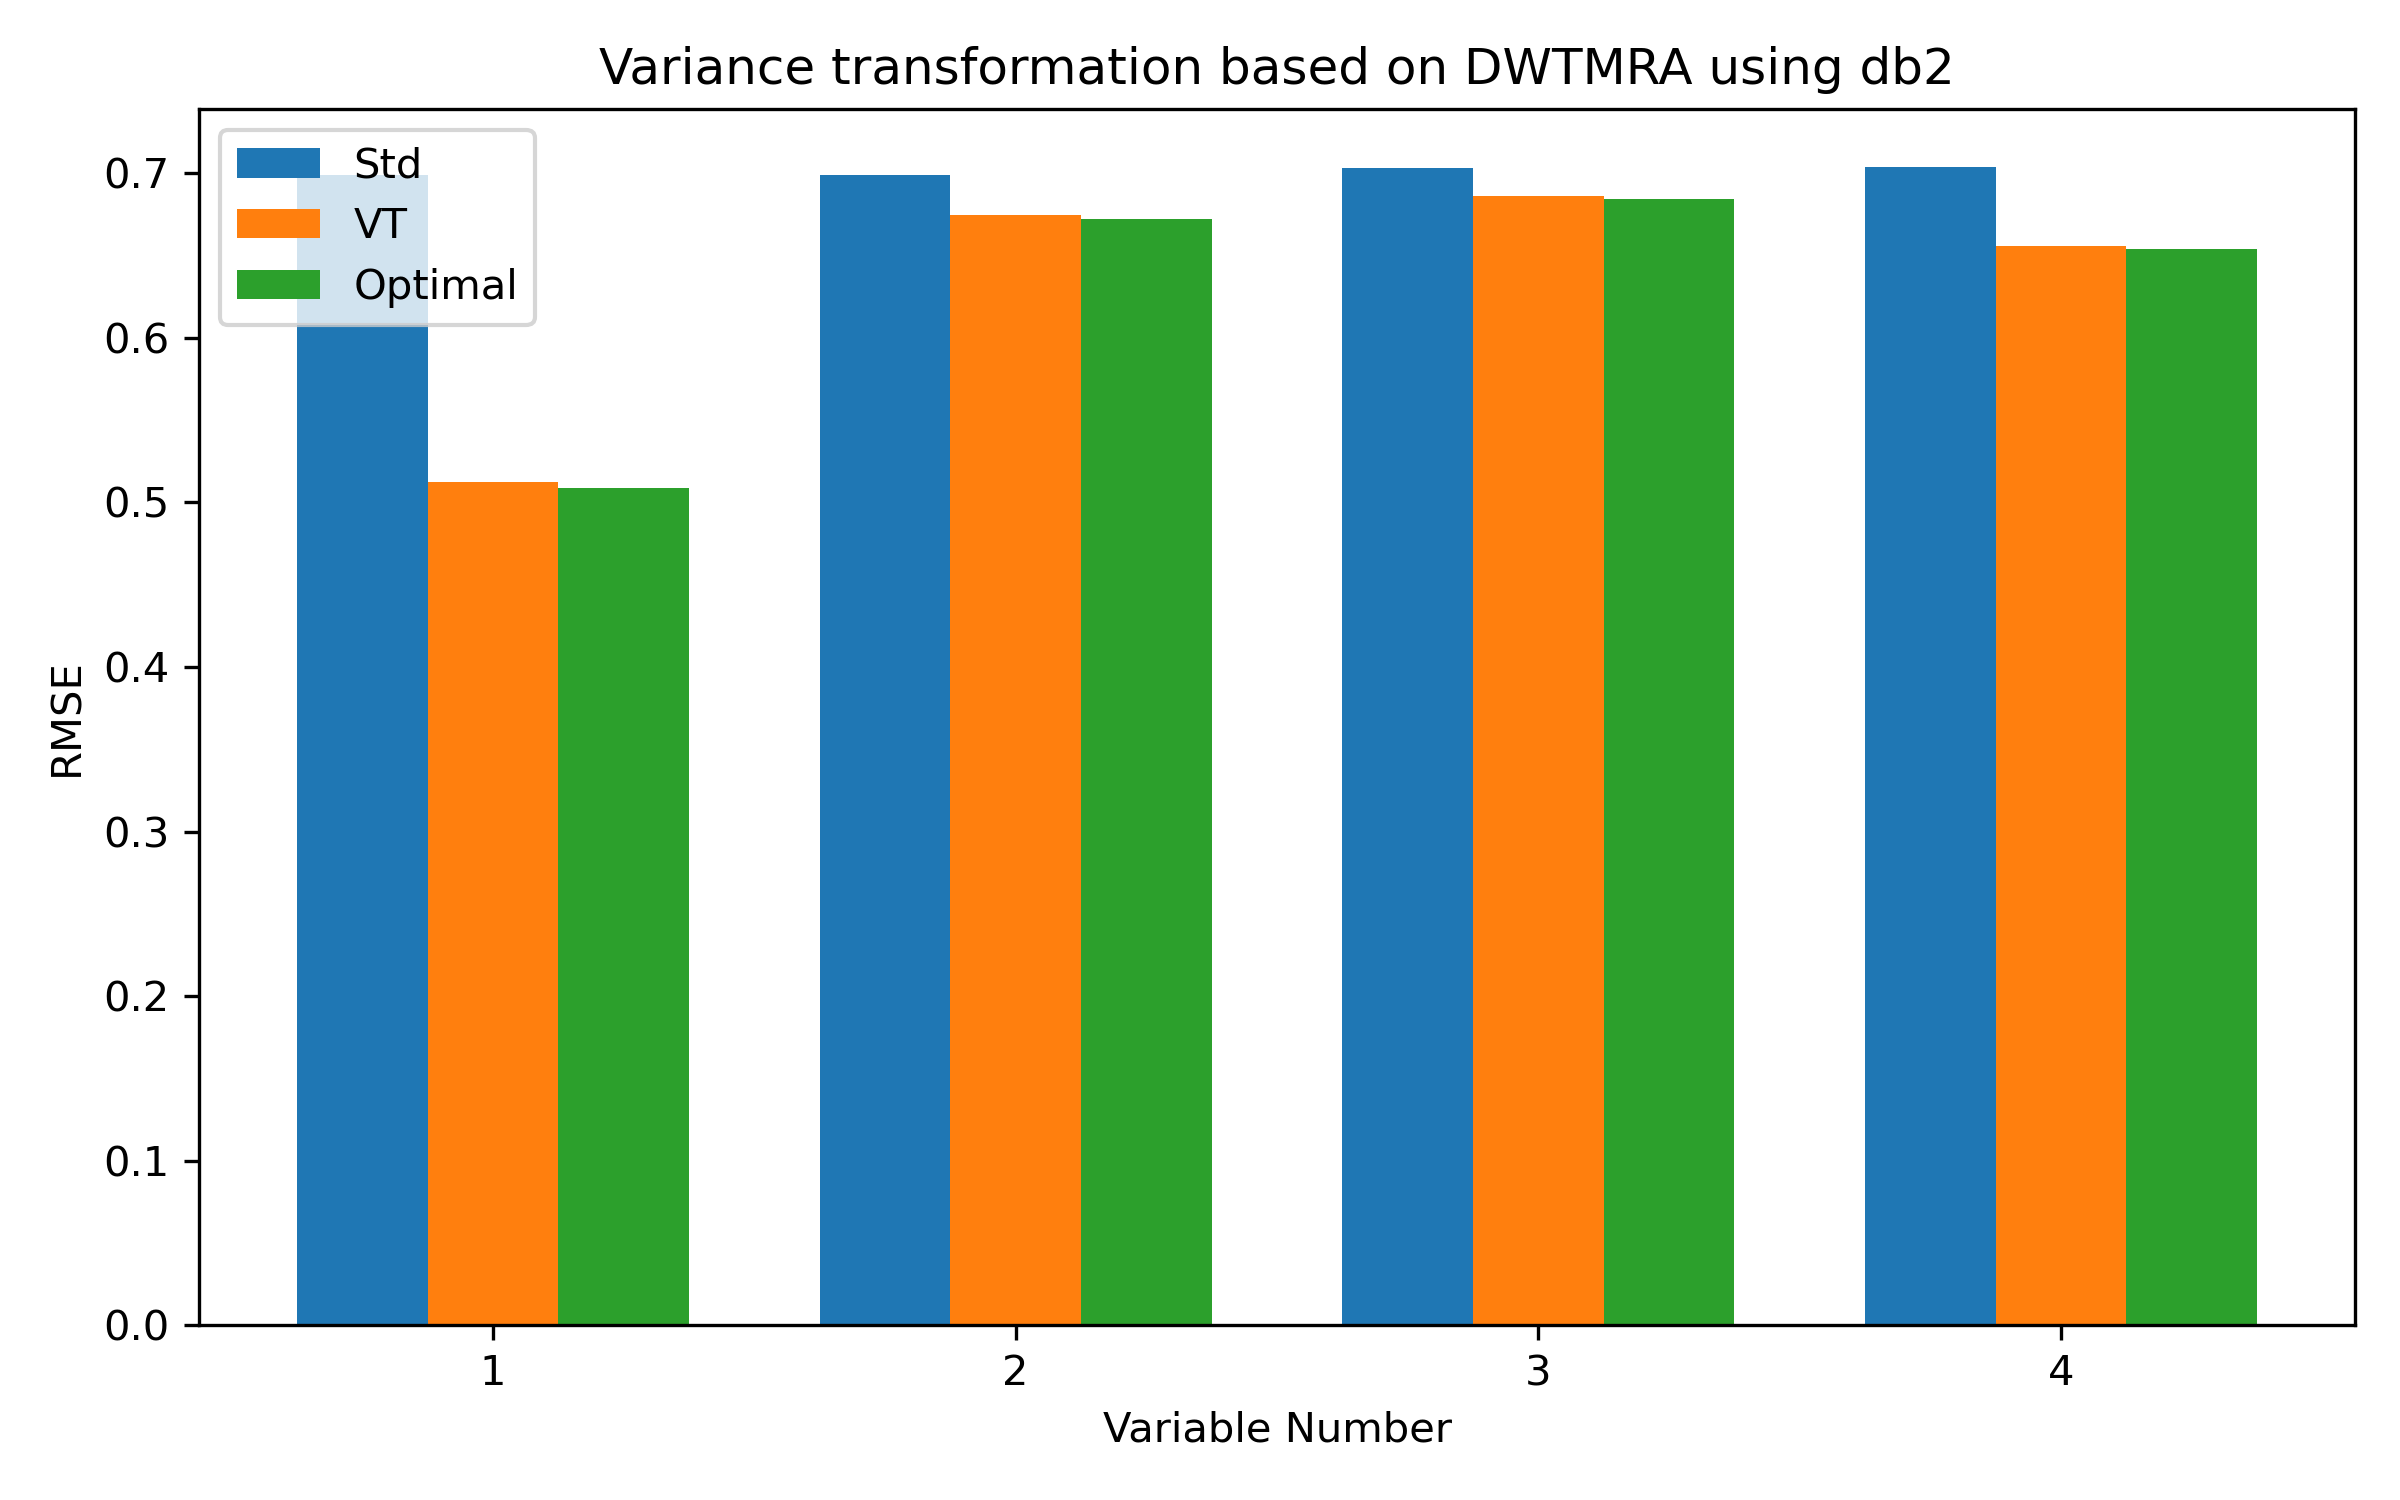
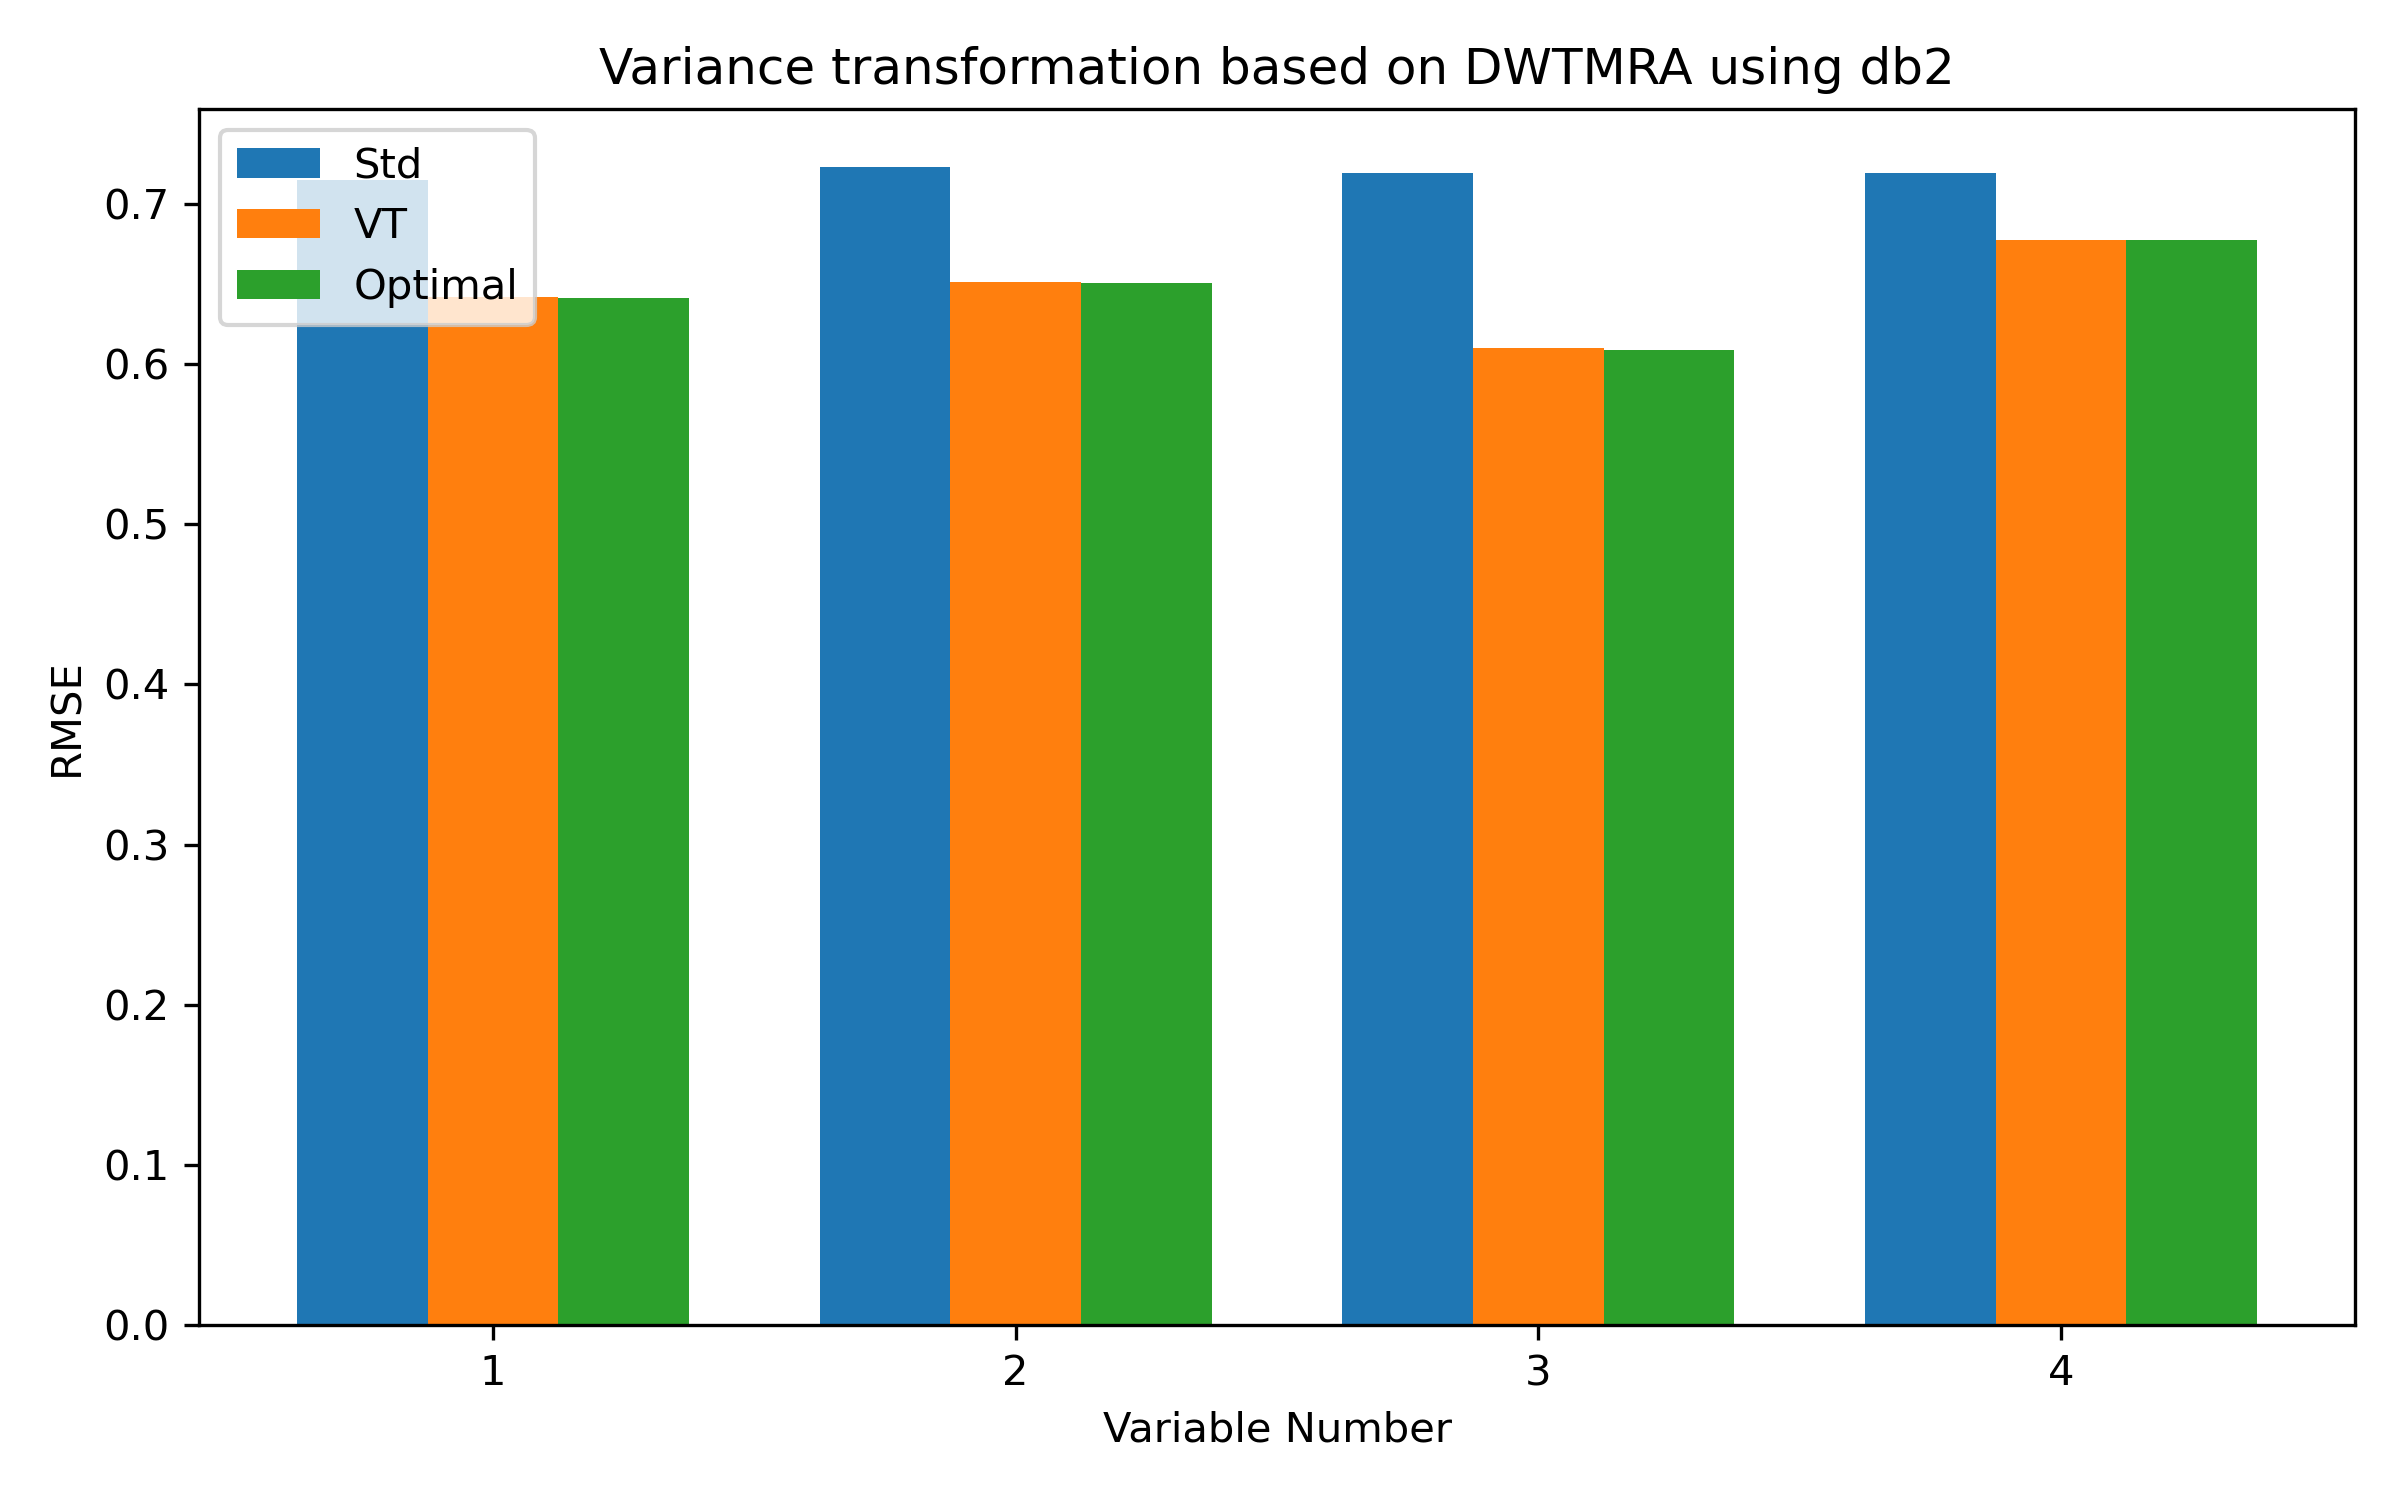
update demo1

diff --git a/wasp_demo1.py b/wasp_demo1.py
@@ -39,7 +39,7 @@ for i in range(n_var):
     x_wasp = X_WaSP[:N, i]
 
     # Optimal RMSE (WRR2020 Eq. 12)
-    # ratio = np.var(x_raw) / np.var(x_wasp)
+    ratio = np.var(x_raw) / np.var(x_wasp)
     # RMSE_opti[i] = np.sqrt((N - 1) / N * (np.var(Y) - (np.linalg.norm(C[:, i]) ** 2) * ratio))
     RMSE_opti[i] = np.sqrt((np.var(Y) - (np.linalg.norm(C[:, i]) ** 2) * ratio)) # different variance calculation in python
 
